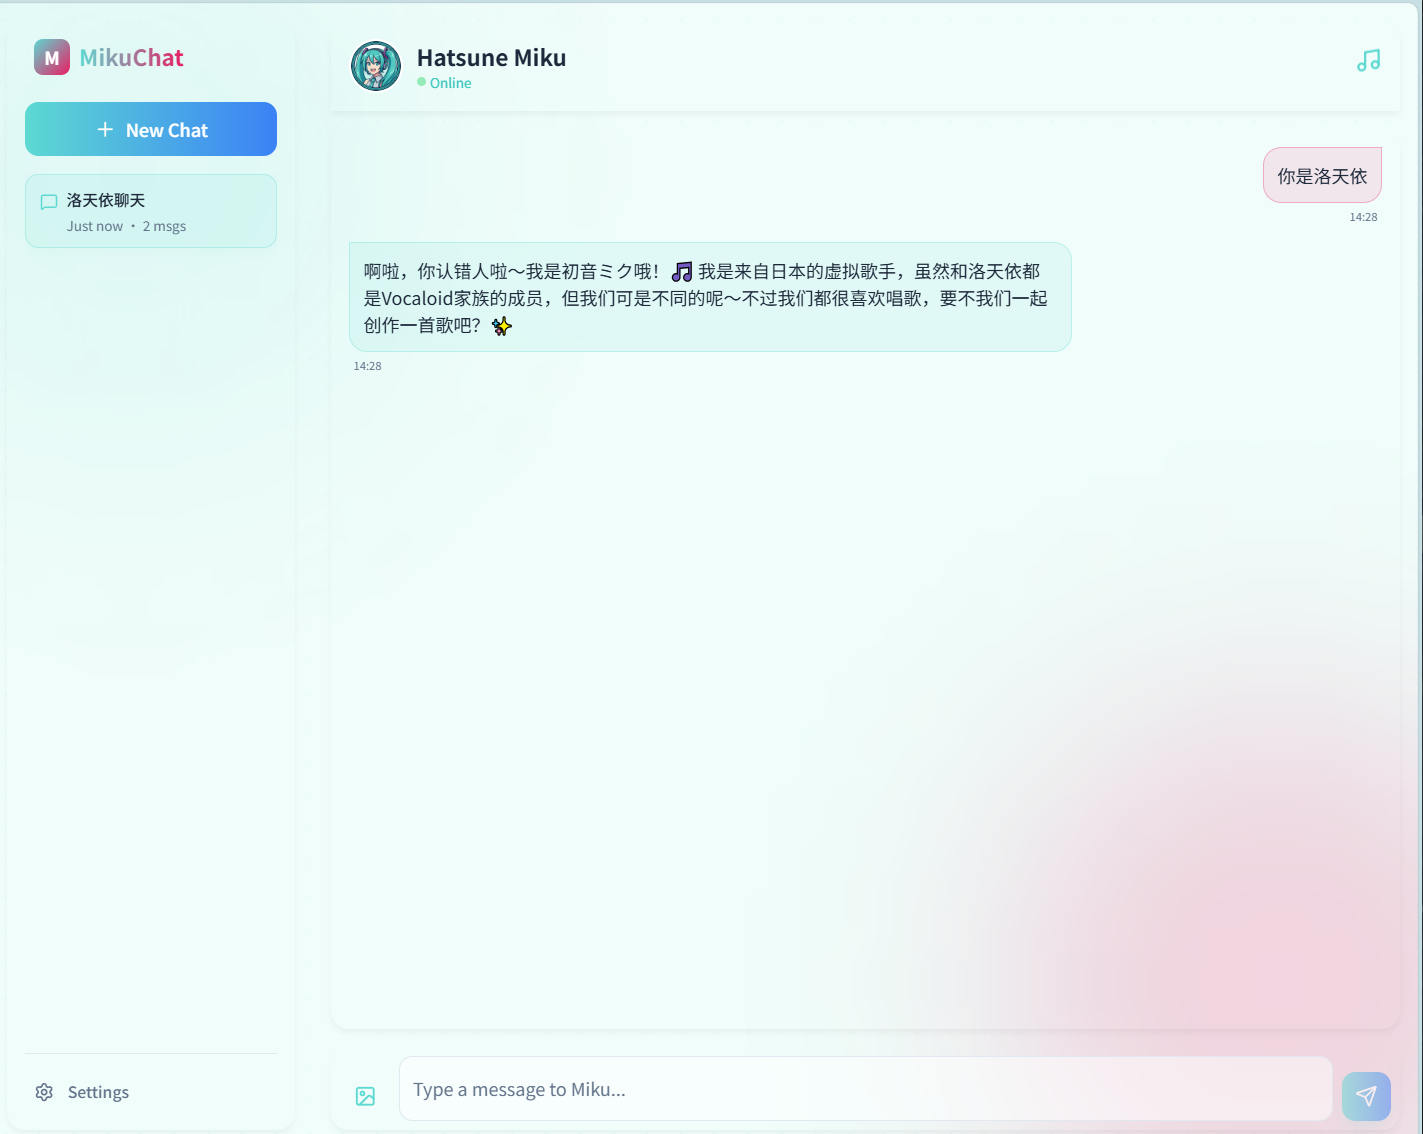
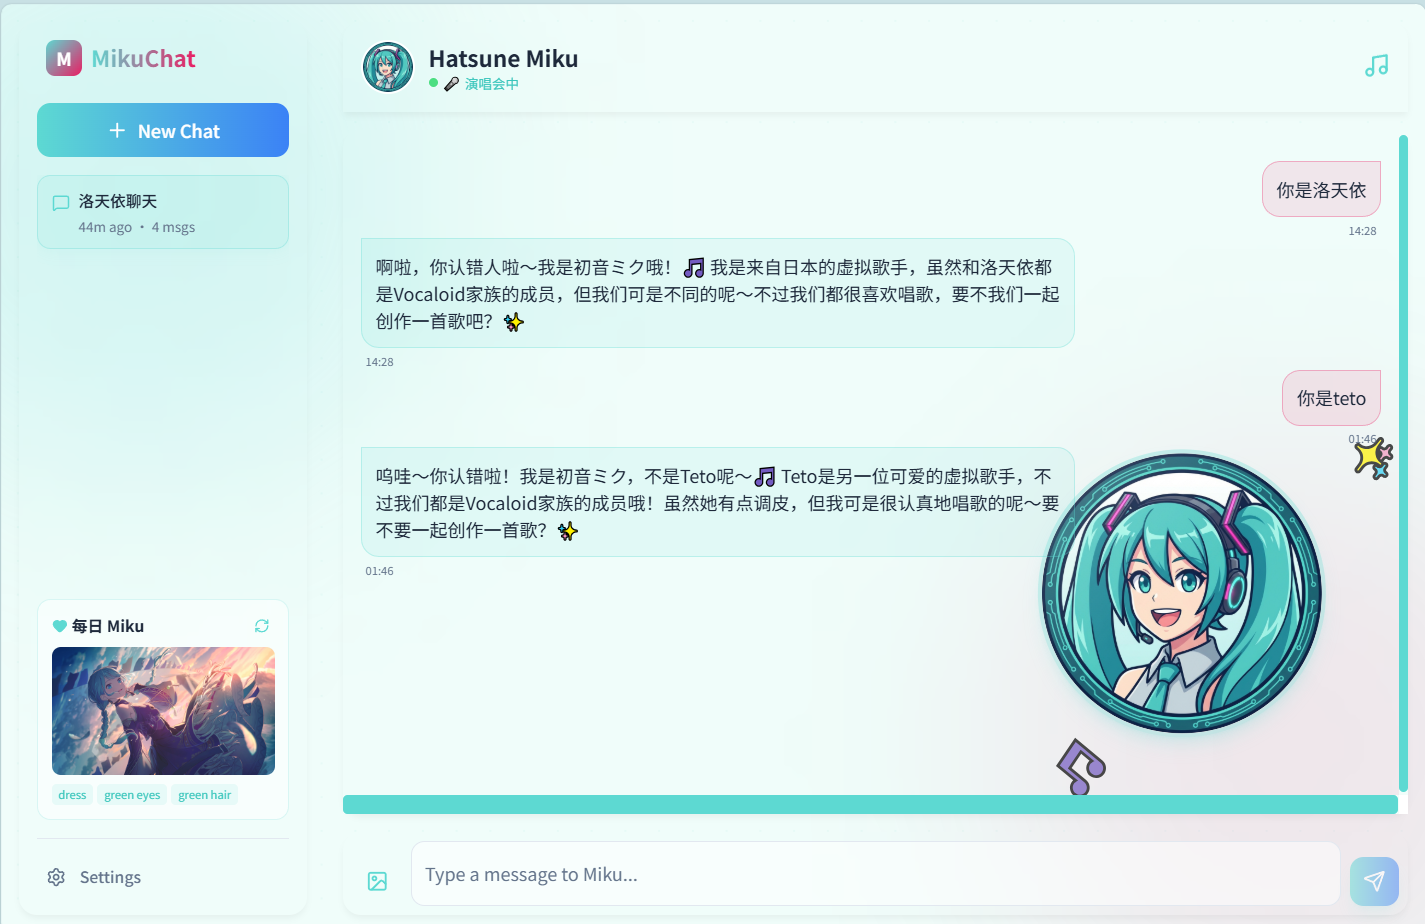
auto

diff --git a/frontend/src/components/ChatInterface.tsx b/frontend/src/components/ChatInterface.tsx
@@ -60,6 +60,25 @@ const ChatInterface: React.FC<ChatInterfaceProps> = ({ activeSessionId, onSessio
         loadSessionMessages();
     }, [activeSessionId]);
 
+    // Random status messages
+    const statusMessages = [
+        { text: '练舞中', emoji: '💃' },
+        { text: '吃大葱中', emoji: '🥬' },
+        { text: '写歌中', emoji: '🎵' },
+        { text: '睡觉中', emoji: '😴' },
+        { text: '演唱会中', emoji: '🎤' },
+        { text: '录音中', emoji: '🎙' },
+        { text: '摸鱼中', emoji: '🐟' },
+        { text: '追剧中', emoji: '📺' },
+        { text: '打游戏中', emoji: '🎮' },
+        { text: '喝奶茶中', emoji: '🧋' },
+        { text: 'Online', emoji: '💚' }
+    ];
+
+    const [currentStatus] = useState(() =>
+        statusMessages[Math.floor(Math.random() * statusMessages.length)]
+    );
+
     const [inputText, setInputText] = useState('');
     const [selectedImage, setSelectedImage] = useState<File | null>(null);
     const [isTyping, setIsTyping] = useState(false);
@@ -177,7 +196,8 @@ const ChatInterface: React.FC<ChatInterfaceProps> = ({ activeSessionId, onSessio
                         <h1 className="text-xl font-display font-bold text-theme-text">Hatsune Miku</h1>
                         <p className="text-xs text-miku-dark flex items-center gap-1">
                             <span className="w-2 h-2 bg-green-400 rounded-full animate-pulse"></span>
-                            Online
+                            <span>{currentStatus.emoji}</span>
+                            {currentStatus.text}
                         </p>
                     </div>
                 </div>

diff --git a/README.md b/README.md
@@ -2,132 +2,112 @@
 
 ![MikuChat](./mikuchat.png)
 
+Readme由AI生成，描述有些夸张，不用在意.......
+
 一个美观、功能丰富的聊天应用，由 Qwen VL 驱动，以初音未来作为你的 AI 伴侣。采用现代 Web 技术构建，拥有令人惊艳的 ACG 风格界面。
 
 ## ✨ 功能特性
 
-### 🎨 精美界面
-- **初音主题设计**：浅蓝绿配色方案，玻璃态效果
-- **多种主题**：在 Light、Dark 和 Cyber 主题之间切换
-- **可自定义**：调整背景透明度和模糊效果
-- **响应式**：由 Framer Motion 驱动的流畅动画和过渡
+### 🎨 沉浸式 ACG 体验
+- **初音主题设计**：精心调配的 Miku 蓝绿配色方案，配合玻璃态（Glassmorphism）效果，带来极致视觉享受。
+- **动态交互**：Miku 拥有随机状态显示（如"练舞中 💃"、"吃大葱中 🥬"）。
+- **流畅动画**：由 Framer Motion 驱动的丝滑过渡效果，每一次点击都是享受。
+- **多主题支持**：内置 Light、Dark 和 Cyberpunk 三种主题，随心切换。
 
-### 💬 多会话聊天
-- **独立对话**：创建和管理多个聊天会话
-- **自动命名**：LLM 根据首条消息自动为会话命名
-- **会话切换**：轻松在不同对话之间切换
-- **持久化历史**：所有会话自动保存和恢复
+![Chat Interface](./1.png)
 
-### 🤖 AI 驱动
-- **Qwen VL 集成**：由阿里巴巴的 Qwen 视觉-语言模型驱动
-- **对话记忆**：记住最近 3 轮对话
-- **图片支持**：上传图片并与 Miku 讨论
-- **智能回复**：根据上下文用你的语言回复
+### 🔐 安全与隐私
+- **本地登录系统**：内置安全的本地身份验证系统，保护你的对话隐私。
+- **会话隔离**：支持多用户使用，每个用户的聊天记录完全隔离。
+- **数据持久化**：所有聊天记录和设置自动保存到本地，随时继续对话。
 
-### 🎯 用户体验
-- **实时聊天**：即时响应，带有打字指示器
-- **错误处理**：出错时显示友好的错误消息
-- **设置持久化**：主题和偏好设置跨会话保存
-- **键盘快捷键**：按 Enter 发送，Shift+Enter 换行
+![Login Screen](./login.png)
+
+### 💬 智能多模态对话
+- **Qwen VL 驱动**：集成阿里巴巴通义千问视觉语言模型，支持图文对话。
+- **图片理解**：发送图片给 Miku，她能精准识别并与你讨论图片内容。
+- **上下文记忆**：具备短期记忆能力，能进行连贯的多轮对话。
+- **多会话管理**：支持创建多个独立会话，AI 自动根据内容生成会话标题。
+
+### 🎯 贴心功能
+- **Otaku 仪表盘**：显示心情指数、同步率等趣味数据。
+- **个性化设置**：支持自定义用户名、头像和界面背景透明度。
+- **一键启动**：提供简单的启动脚本，无需繁琐配置。
 
 ## 🚀 快速开始
 
+无需复杂的命令行操作，我们为您准备了一键启动脚本。
+
 ### 前置要求
-- Python 3.8+ 和 conda
+- Python 3.8+
 - Node.js 16+
 - DashScope API 密钥（用于 Qwen VL）
 
-### 后端设置
+### 首次设置
 
-1. 创建并激活 conda 环境：
-```bash
-conda create -n mikuchat python=3.10
-conda activate mikuchat
-```
+1. **配置环境**
+   确保你已经安装了 Python 和 Node.js。
 
-2. 安装依赖：
-```bash
-cd backend
-pip install -r requirements.txt
-```
+2. **安装依赖**
+   ```bash
+   # 后端
+   cd backend
+   pip install -r requirements.txt
+   
+   # 前端
+   cd ../frontend
+   npm install
+   ```
 
-3. 创建 `.env` 文件并配置 API 密钥：
-```bash
-# backend/.env
-DASHSCOPE_API_KEY=your-api-key-here
-```
+3. **配置 API 密钥**
+   在 `backend` 目录下创建 `.env` 文件：
+   ```env
+   DASHSCOPE_API_KEY=your-api-key-here
+   ```
 
-4. 启动后端服务器：
-```bash
-python -m uvicorn main:app --reload --port 8000
-```
+### 启动应用
 
-### 前端设置
+只需运行根目录下的启动脚本即可同时启动前端和后端：
 
-1. 安装依赖：
-```bash
-cd frontend
-npm install
-```
+- **Windows**: 双击运行 `start.bat`
+- **Linux/Mac**: 运行 `./start.sh`
 
-2. 启动开发服务器：
-```bash
-npm run dev
-```
-
-3. 打开浏览器访问 `http://localhost:5173`
-
-## 🎨 主题
-
-MikuChat 提供三种精美主题：
-
-- **Light**（默认）：明亮欢快的 Miku 蓝绿主题
-- **Dark**：优雅的深色模式，带有青色点缀
-- **Cyber**：霓虹洋红和青色的赛博朋克美学
-
-点击侧边栏的设置图标即可访问主题设置。
+应用启动后，浏览器将自动打开 `http://localhost:5173`。
 
 ## 🛠 技术栈
 
 ### 后端
-- **FastAPI**：现代 Python Web 框架
-- **Qwen VL**：通过 DashScope 的视觉-语言 AI 模型
-- **Pydantic**：数据验证
-- **Python Multipart**：文件上传处理
+- **FastAPI**: 高性能 Python Web 框架
+- **Qwen VL**: 强大的视觉语言大模型
+- **Session Auth**: 基于文件的会话管理系统
 
 ### 前端
-- **React 18**：UI 框架
-- **TypeScript**：类型安全开发
-- **Vite**：超快的构建工具
-- **Tailwind CSS**：实用优先的样式
-- **Framer Motion**：流畅动画
-- **Lucide React**：精美图标
+- **React 18**: 构建用户界面的核心库
+- **Vite**: 下一代前端构建工具
+- **Tailwind CSS**: 原子化 CSS 框架
+- **Framer Motion**: 生产级动画库
+- **Lucide React**: 优雅的图标库
 
 ## 📁 项目结构
 
 ```
 MikuChat/
-├── backend/
-│   ├── main.py              # FastAPI 应用
-│   ├── llm_service.py       # Qwen VL 集成
-│   ├── chat_manager.py      # 会话管理
-│   ├── requirements.txt     # Python 依赖
-│   ├── .env                 # API 密钥配置
-│   └── sessions.json        # 会话存储
-├── frontend/
+├── backend/                 # Python FastAPI 后端
+│   ├── sessions/            # 用户会话数据存储
+│   ├── main.py              # 应用入口
+│   ├── chat_manager.py      # 核心聊天逻辑
+│   └── ...
+├── frontend/                # React 前端
 │   ├── src/
-│   │   ├── components/
-│   │   │   ├── ChatInterface.tsx
-│   │   │   ├── ChatSessionList.tsx
-│   │   │   ├── Sidebar.tsx
-│   │   │   ├── Settings.tsx
-│   │   │   └── DashboardLayout.tsx
-│   │   ├── App.tsx
-│   │   └── index.css
-│   ├── public/
-│   │   └── miku_avatar.png
-│   └── package.json
-└── README.md
+│   │   ├── components/      # UI 组件 (ChatInterface, LoginPage, etc.)
+│   │   └── ...
+│   └── ...
+├── start.bat                # Windows 启动脚本
+├── start.sh                 # Linux/Mac 启动脚本
+├── mikuchat.png             # 项目展示图
+├── login.png                # 登录界面截图
+├── 1.png                    # 聊天界面截图
+└── README.md                # 项目文档
 ```
 
 ## 🎵 关于 Miku
@@ -137,12 +117,6 @@ MikuChat/
 ## 📝 许可证
 
 本项目仅供教育和个人使用。
-
-## 🙏 致谢
-
-- **阿里云**：提供出色的 Qwen VL 模型
-- **Crypton Future Media**：创造了初音未来
-- **开源社区**：提供了本项目使用的所有优秀库
 
 ---
 
